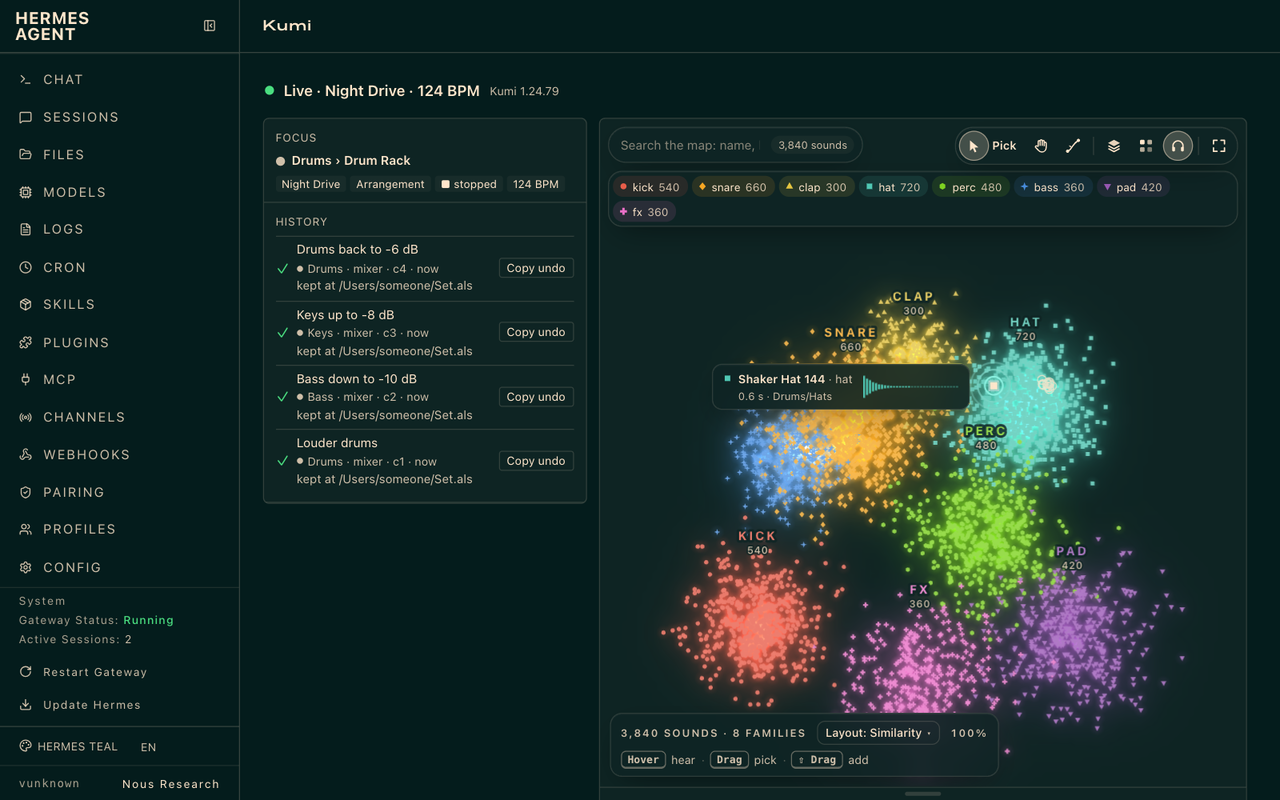
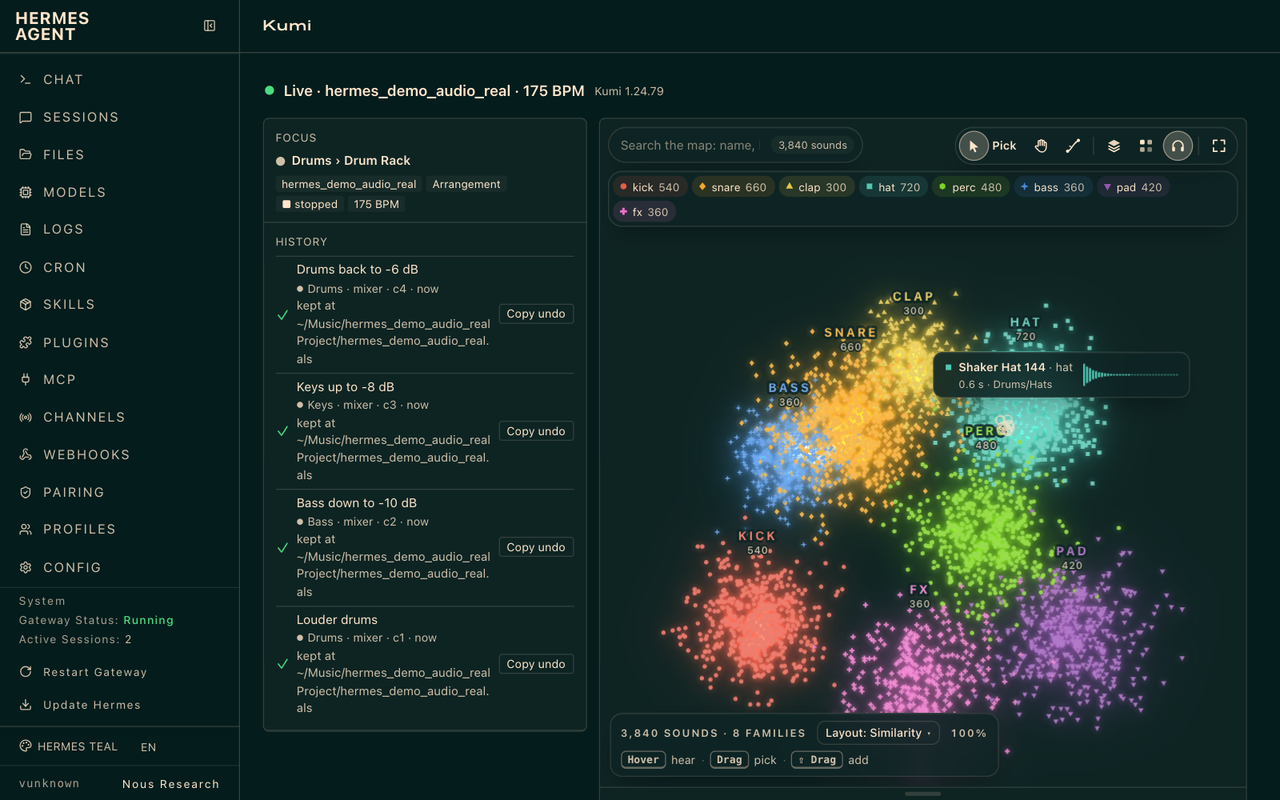
Kumi for Hermes's screenshots show real Renoise and Live sessions, and a plainly named project (#1279)

diff --git a/hermes-plugin/README.md b/hermes-plugin/README.md
@@ -61,32 +61,33 @@ Hermes stays the agent: Kumi gives it a DAW to work in.
 
 ## What it looks like
 
-![Hermes Desktop with Kumi's pane: FOCUS on the Drums track, and HISTORY with an Undo on each change.](../docs/assets/hermes/screenshots/catalog-1-pane.png)
+![Hermes Desktop with Kumi's pane in a real Renoise session: the chat ("now do that with literally every effect", Hermes's steps and Kumi's changes) beside the pane, showing the project at 109 BPM, FOCUS on the playing pattern, a sample scan running (95,633 of 160,889), and HISTORY at change 207 with Undo on the newest.](../docs/assets/hermes/screenshots/catalog-1-pane.png)
 
-*Hermes Desktop with Kumi's pane: FOCUS on the Drums track, and HISTORY with an Undo on each change.*
+*Hermes Desktop with Kumi's pane in a real Renoise session: the chat ("now do that with literally every effect", Hermes's steps and Kumi's changes) beside the pane, showing the project at 109 BPM, FOCUS on the playing pattern, a sample scan running (95,633 of 160,889), and HISTORY at change 207 with Undo on the newest.*
 
-![With Ask before each change on, Hermes shows exactly what Kumi will change in Live before it does, here the Drums fader from −6.0 dB to −4 dB.](../docs/assets/hermes/screenshots/catalog-3-approval.png)
+![A real Ableton Live session: the set Hermes built from a video tutorial in an empty Live set (seven tracks, two returns, their clips and an 808 Core Kit), beside Kumi's sound map of 29,176 of the producer's own samples, Make playing a 2-bar loop in 7/4 at 90 BPM made from them, and a palette of sounds made in Kumi.](../docs/assets/hermes/screenshots/catalog-5-live-set.png)
 
-*With **Ask before each change** on, Hermes shows exactly what Kumi will change in Live before it does, here the Drums fader from −6.0 dB to −4 dB.*
-
-![Listening in REAPER with Kumi 1.24.71: a test tone measured beside its reference, in round 2, after a +3 dB level change.](../docs/assets/hermes/screenshots/catalog-4-mastering.png)
-
-*Listening in REAPER with Kumi 1.24.71: a test tone measured beside its reference, in round 2, after a +3 dB level change.*
+*A real Ableton Live session: the set Hermes built from a video tutorial in an empty Live set (seven tracks, two returns, their clips and an 808 Core Kit), beside Kumi's sound map of 29,176 of the producer's own samples, Make playing a 2-bar loop in 7/4 at 90 BPM made from them, and a palette of sounds made in Kumi.*
 
 ![The palette: a box of 18 snares picked in white, with their actions beside them (Add to palette, Make…, More like these), the palette's 15 hats ringed in the accent, and the palette drawer below, each sound with its waveform in its family's colour.](../docs/assets/hermes/screenshots/catalog-7-palette.png)
 
 *The palette: a box of 18 snares picked in white, with their actions beside them (Add to palette, Make…, More like these), the palette's 15 hats ringed in the accent, and the palette drawer below, each sound with its waveform in its family's colour.*
 
-![Make, open beside the map: a Stack and a Loop at the project's 124 BPM (playing, kept in the palette), each drawn in the colours of the snares it came from, with Reroll, Keep and Use.](../docs/assets/hermes/screenshots/catalog-8-make.png)
+![Make, open beside the map: a Stack and a Loop at the project's 175 BPM (playing, kept in the palette), each drawn in the colours of the snares it came from, with Reroll, Keep and Use.](../docs/assets/hermes/screenshots/catalog-8-make.png)
 
-*Make, open beside the map: a Stack and a Loop at the project's 124 BPM (playing, kept in the palette), each drawn in the colours of the snares it came from, with Reroll, Keep and Use.*
+*Make, open beside the map: a Stack and a Loop at the project's 175 BPM (playing, kept in the palette), each drawn in the colours of the snares it came from, with Reroll, Keep and Use.*
 
-Screenshots: the pane and the approval are Kumi 1.24.73 on real Ableton Live 12, and the listening shot is Kumi 1.24.71
-on real REAPER 7. Hermes's side of the chat came from a scripted stand-in model, so the words are illustrative; Kumi's
-side (the pane, the approval and the measurements) is real. The listening shot measures a synthetic test tone against a
-reference made 3 dB louder, after a level change only; the struck row in its HISTORY is an earlier, undone calibration
-step. The map, palette and Make shots are Kumi 1.24.79 in Hermes v0.23.0's Desktop interface: the 3,840-sound map and
-its samples are generated test data, and the made sounds come from Kumi's sound-design engine.
+Screenshots:
+- The pane is a real session, not scripted: Hermes Desktop v0.23.1 on Windows with a real model, Kumi for Hermes on the
+  1.24.79 runtime, and real Renoise, in a project that started empty.
+- The Live set is a real session, not scripted: Hermes Desktop v0.23.1 on Windows with a real model, Kumi for Hermes,
+  and Ableton Live 12 Beta, in a set that started empty. Asked "watch this tutorial (a YouTube link) and recreate it in
+  the empty live project", Hermes read the tutorial's transcript (its video player wouldn't load) and built the tracks,
+  routing, devices and clips. The sound map holds 29,176 of the producer's own samples.
+- The map, palette and Make shots are Kumi 1.24.79 in Hermes v0.23.0's Desktop interface: the 3,840-sound map and its
+  samples are generated test data, and the made sounds come from Kumi's sound-design engine.
+- In the other shots, Hermes's side of the chat came from a scripted stand-in model, so the words are illustrative;
+  Kumi's side is real.
 
 ## Tools
 

diff --git a/docs/en/HERMES.md b/docs/en/HERMES.md
@@ -203,7 +203,7 @@ The palette is the sounds you gather to work with, as in Kumi's own map; Hermes 
 Kumi makes a new sound out of two or more of yours, as many as you pick (map sounds, palette sounds, or sounds Kumi
 made before). Nothing in your project changes: the result is Kumi's own copy until you use it.
 
-![The Make panel, open beside the map: a Stack and a Loop at the project's 124 BPM (playing, already kept in the palette), each drawn in the colours of the snares it came from, with Reroll, Keep and Use.](../assets/hermes/screenshots/catalog-8-make.png)
+![The Make panel, open beside the map: a Stack and a Loop at the project's 175 BPM (playing, already kept in the palette), each drawn in the colours of the snares it came from, with Reroll, Keep and Use.](../assets/hermes/screenshots/catalog-8-make.png)
 
 *Kumi 1.24.79 in Hermes Desktop; the samples are generated test data, and the made sounds come from Kumi's engine.*
 
@@ -389,13 +389,17 @@ run without asking there, and Kumi can't tell it from a chat.
 - **The dot** beside Kumi's status (in the chip, the pane and the dashboard) pulses at your DAW's tempo while it plays,
   and sits still when it's stopped.
 
-![Hermes Desktop with Kumi's pane: FOCUS on the Drums track, and HISTORY with an Undo on each change.](../assets/hermes/screenshots/catalog-1-pane.png)
+![Hermes Desktop with Kumi's pane in a real Renoise session: the chat ("now do that with literally every effect", Hermes's steps and Kumi's changes) beside the pane, showing the project at 109 BPM, FOCUS on the playing pattern, a sample scan running (95,633 of 160,889), and HISTORY at change 207 with Undo on the newest.](../assets/hermes/screenshots/catalog-1-pane.png)
 
 ![The web dashboard's Kumi page: status, FOCUS and HISTORY (each change with Copy undo) beside the sound map, each family named, and a hat's name and waveform on hover.](../assets/hermes/screenshots/hermes-dashboard.png)
 
-Screenshots: the pane is Kumi 1.24.73 on real Ableton Live 12. The map, palette, Make and dashboard shots are Kumi
-1.24.79 on a generated 3,840-sound test map, with the made sounds from Kumi's sound-design engine. Hermes's side of the
-chat came from a scripted stand-in model, so the words are illustrative; Kumi's side is real.
+Screenshots:
+- The pane is a real session, not scripted: Hermes Desktop v0.23.1 on Windows with a real model, Kumi for Hermes on the
+  1.24.79 runtime, and real Renoise, in a project that started empty.
+- The map, palette, Make and dashboard shots are Kumi 1.24.79 on a generated 3,840-sound test map, with the made
+  sounds from Kumi's sound-design engine.
+- In the other shots, Hermes's side of the chat came from a scripted stand-in model, so the words are illustrative;
+  Kumi's side is real.
 
 ## Settings
 
